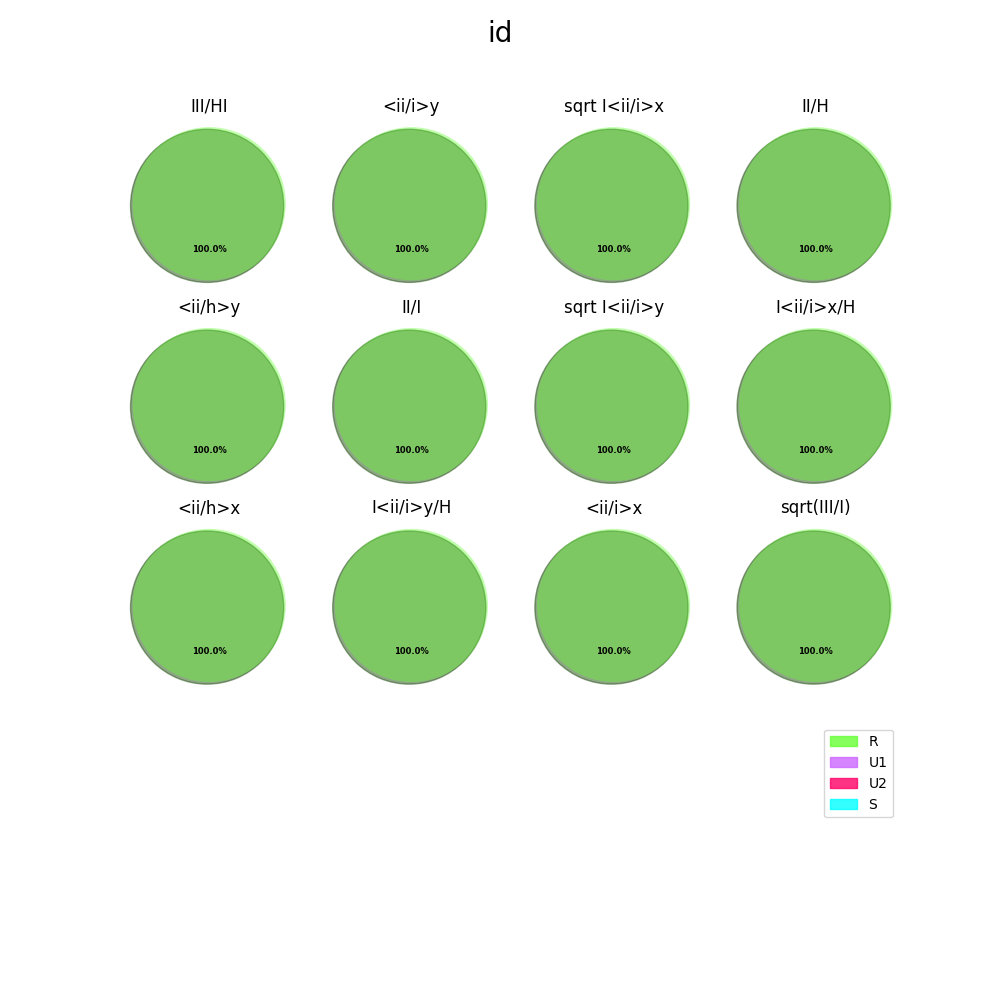
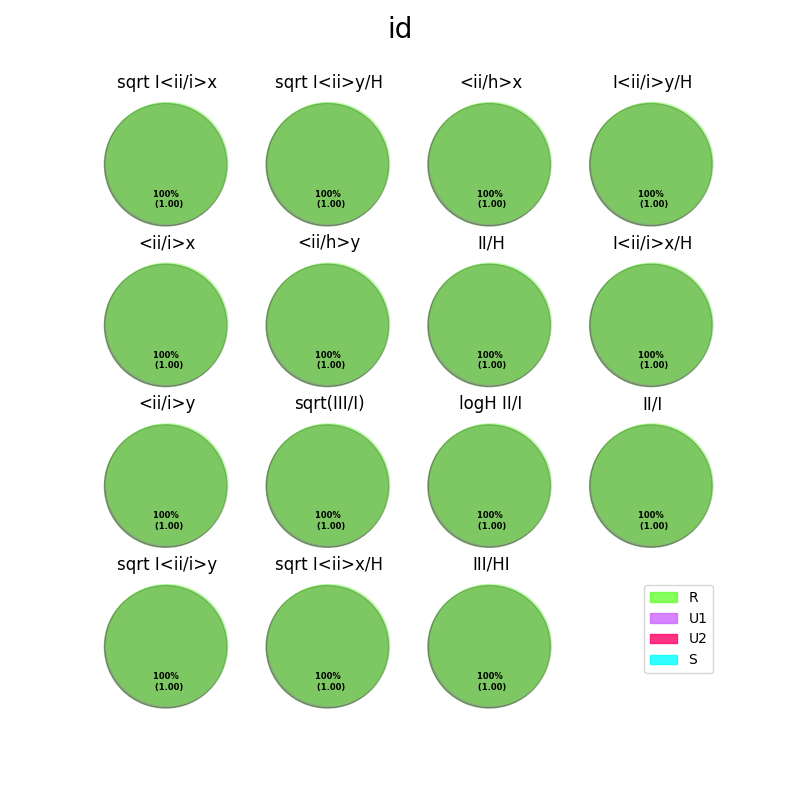
few fixes

diff --git a/src/PID.py b/src/PID.py
@@ -56,9 +56,9 @@ def R_candidates(Pr, Al, num_inst):
 
     # TODO: poss frag into smaller fns
 
-    xkeys = ['sqrt I<ii/i>x', '<ii/i>x', 'I<ii/i>x/H','<ii/h>x']
-    ykeys = ['sqrt I<ii/i>y', '<ii/i>y', 'I<ii/i>y/H','<ii/h>y']
-    wkeys = ['II/I','sqrt(III/I)','III/HI', 'II/H'] #w for whole
+    xkeys = ['sqrt I<ii/i>x', '<ii/i>x', 'I<ii/i>x/H','<ii/h>x', 'sqrt I<ii>x/H']
+    ykeys = ['sqrt I<ii/i>y', '<ii/i>y', 'I<ii/i>y/H','<ii/h>y', 'sqrt I<ii>y/H']
+    wkeys = ['II/I','sqrt(III/I)','III/HI', 'II/H','logH II/I'] #w for whole
 
     cand_keys = xkeys + ykeys + wkeys
 
@@ -123,6 +123,10 @@ def R_candidates(Pr, Al, num_inst):
     R['sqrt I<ii/i>x'] = pow(R['<ii/i>x'] * Info(Pr,'x1','x2'), 1 / 2)
     R['I<ii/i>x/H'] = R['<ii/i>x'] * Info(Pr,'x1','x2') / H(Pr,'x1,x2')
     R['I<ii/i>y/H'] = R['<ii/i>y'] * Info(Pr,'x1','x2') / H(Pr,'x1,x2')
+    R['sqrt I<ii>x/H'] = pow(R['<ii/h>x'] * Info(Pr,'x1','x2') , 1/2)
+    R['sqrt I<ii>y/H'] = pow(R['<ii/h>y'] * Info(Pr,'x1','x2') , 1/2)
+
+    R['logH II/I'] = log((H(Pr,'x1')+H(Pr,'x2'))/H(Pr,'x1,x2'),2) * R['II/I']
 
     # only want to plot candidates
     dels = []
@@ -149,13 +153,13 @@ def PID_decompose(R, Pr, print_PID=True):
         PID[k]['U2'] -= PID[k]['R']
         PID[k]['S'] -= (PID[k]['U1'] + PID[k]['U2'] + PID[k]['R'])
 
+        for p in ['R', 'U1', 'U2', 'S']:
+            PID[k][p] = round(PID[k][p],8) #rounding
+
         if print_PID:
             print('\n' + k + ':')
             for p in ['R','U1','U2','S']:
                 print(p + ' = ' + str(PID[k][p]))
-
-        for p in ['R', 'U1', 'U2', 'S']:
-            PID[k][p] = round(PID[k][p],8) #rounding
 
 
     return PID

diff --git a/src/plot_pieces.py b/src/plot_pieces.py
@@ -21,7 +21,7 @@ PID_pieces = ['R','U1','U2','S']
 def PID_pie(PIDs, output_path, title):
     #ks = PIDs.keys()
     siden = int(math.ceil(math.sqrt(len(PIDs))))
-    fig, axs = plt.subplots(siden, siden,figsize=(10,10))
+    fig, axs = plt.subplots(siden, siden,figsize=(8,8))
 
     i=0
     for k in PIDs.keys():
@@ -49,7 +49,7 @@ def one_pie(pid, key, axs, x, y):
         for i in range(len(dels)): #need to shift remaining dels since list shrinks
             dels[i] -= 1
 
-    wedges, texts, autotxt = axs[x, y].pie(fracs, autopct='%1.1f%%', shadow=True, startangle=90, colors=colors)
+    wedges, texts, autotxt = axs[x, y].pie(fracs, autopct=make_autopct(tot), shadow=True, startangle=90, colors=colors)
 
     for a in autotxt:
         a.set_fontsize(6)
@@ -60,6 +60,11 @@ def one_pie(pid, key, axs, x, y):
     axs[x, y].axis('equal')
     axs[x, y].set_title(key)
 
+def make_autopct(tot):
+    def my_autopct(pct):
+        val = round(pct*tot/100, 3)
+        return '{p:.0f}% \n ({v:.2f})'.format(p=pct,v=val)
+    return my_autopct
 
 def pie_legend():
     handles = []
@@ -85,7 +90,7 @@ def build_info_bars(Pr, Al):
             al = al.split(',')
             if al[0] == 'xx': a = 'x1,x2'
             else: a = al[0]
-            I[i][k] = Info(Pr,a,al[1])
+            I[i][k] = info(Pr[i],a,al[1])
 
             I[i]['<' + k + '>' + al[0]] = partial_info(Pr,Al,al[1],a,i)
             I[i]['<' + k + '>' + al[1]] = partial_info(Pr,Al,a,al[1],i)
